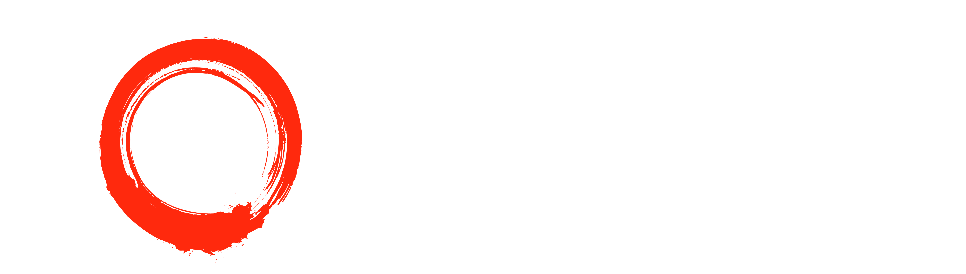
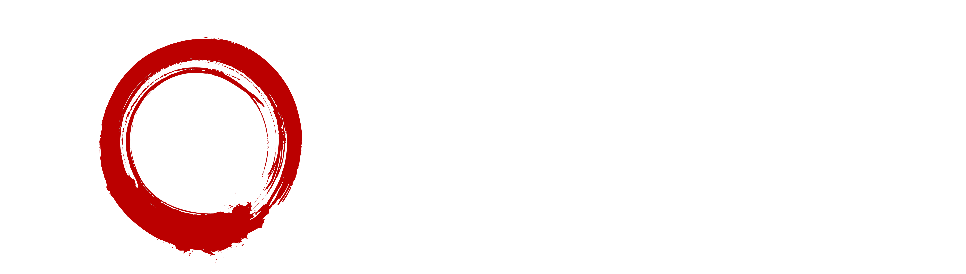
update theme

Changed region(s): [[0.0932, 0.146, 0.3106, 0.9343]]

diff --git a/_sass/color_schemes/dawn.scss b/_sass/color_schemes/dawn.scss
@@ -4,10 +4,12 @@ $border-color: #D2E7FE;
 
 $body-text-color: #001A61;
 $body-heading-color: #050505;
-$nav-child-link-color: #F76D02;
+// $nav-child-link-color: #F76D02;
+$nav-child-link-color: #FD3A0F;
 $search-result-preview-color: #22424F;
 
-$link-color: #FD3A0F;
+// $link-color: #FD3A0F;
+$link-color: #AE360D;	
 $btn-primary-color: #417E96;
 $base-button-color: #417E96;
 

diff --git a/_layouts/default.html b/_layouts/default.html
@@ -24,7 +24,7 @@ layout: table_wrappers
     }
 
     ::-webkit-scrollbar-thumb:hover {
-    background:  #22424F;
+    background:  #AE360D;
     }
   </style>
   <script type="application/x-javascript"> addEventListener("load", function() { setTimeout( hideURLbar, 0); }, false); function hideURLbar(){ window.scrollTo(0,40); } </script>
